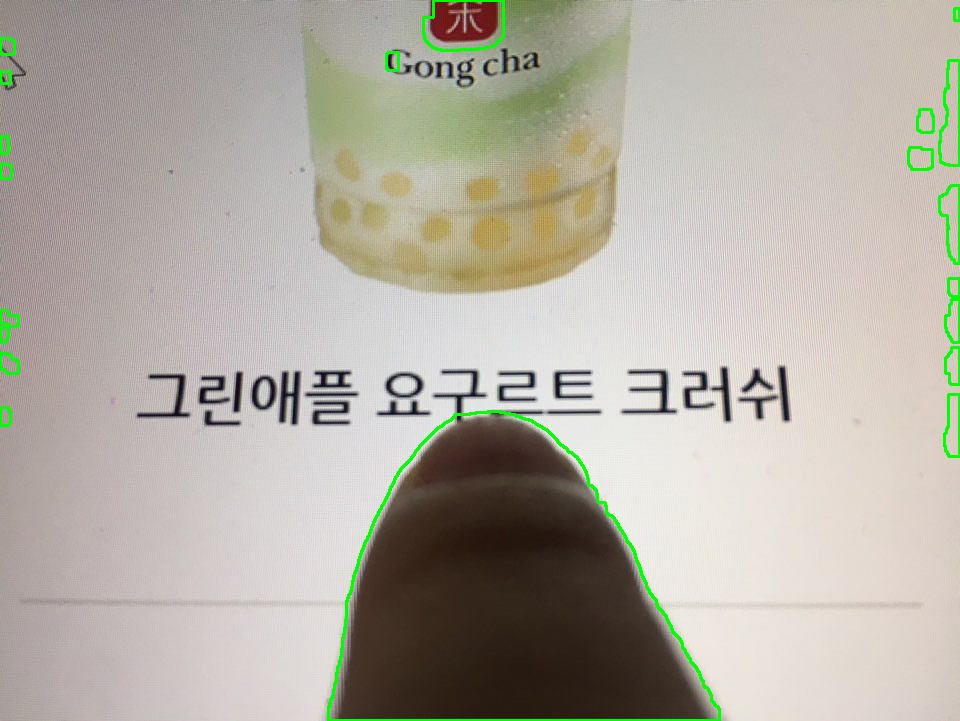
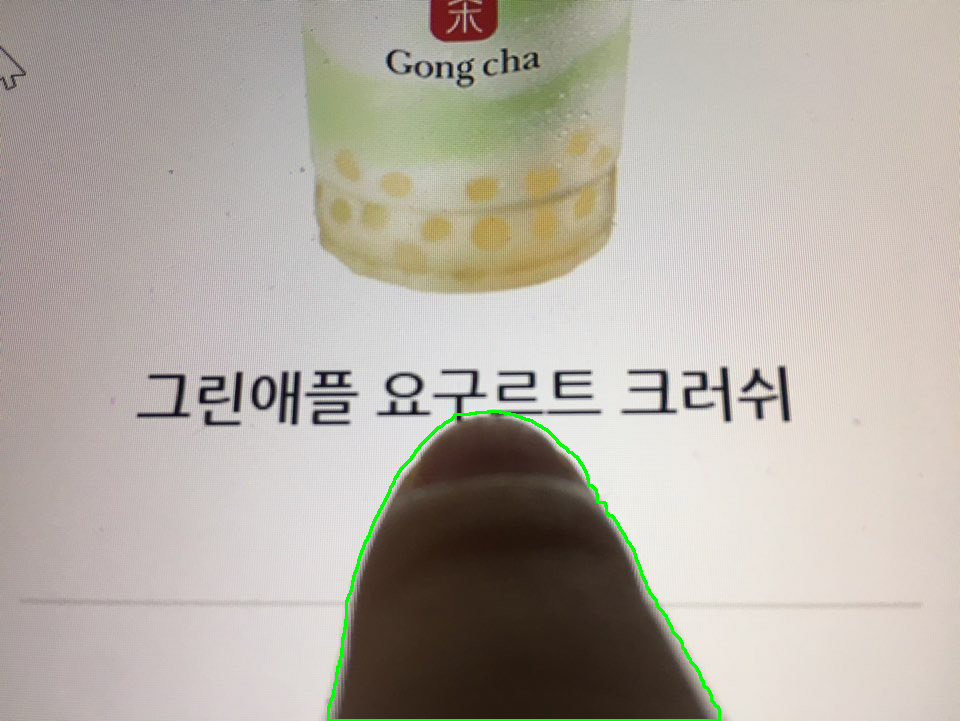
get a finger contour

diff --git a/webcam-capture/src/main/java/example/OpencvExample.java b/webcam-capture/src/main/java/example/OpencvExample.java
@@ -54,52 +54,25 @@ public class OpencvExample {
         List<MatOfPoint> contours = new ArrayList<>();
         Mat hierarchy = new Mat();
         Imgproc.findContours(morphImage, contours, hierarchy, Imgproc.RETR_CCOMP, Imgproc.CHAIN_APPROX_SIMPLE);
-        // draw contours
-        Mat contImage = srcImage.clone();
-        Imgproc.drawContours(contImage, contours, -1, new Scalar(0, 255, 0), 2);
-        saveImage(contImage, savePath + "/gongcha_menu_contour.png");
 
+        // get finger contour
         int centerX = srcImage.width() / 2;
-        int bottom = srcImage.height() - 1;
-        MatOfPoint maxContour = new MatOfPoint();
-//        for (int i = 0; i < contours.size(); i++) {
-            MatOfPoint cont = contours.get(0);
-            Point[] pointArr = cont.toArray();
-            for (int j = 0; j < pointArr.length; j++) {
-                Imgproc.drawMarker(contImage, pointArr[j], new Scalar(0, 255, 0), 1);
-                // center x of src image is between min and max x value of contour?
-//                if ()
+        int bottomY = srcImage.height();
+        Point pt = new Point(centerX, bottomY - 1);
+        MatOfPoint fingerCont = getFingerContour(contours, pt);
+        // draw contours
+        Mat contourImage = srcImage.clone();
+        List<MatOfPoint> contList = new ArrayList<>();
+        contList.add(fingerCont);
+        Imgproc.drawContours(contourImage, contList, -1, new Scalar(0, 255, 0), 2);
+        saveImage(contourImage, savePath + "/gongcha_menu_contour.png");
 
-                System.out.println("contour point:" + pointArr[j].x + "," + pointArr[j].y);
-            }
-//        }
-
-        // determines whether the point is inside a contour
-        Point pt = new Point(centerX, bottom-1);
-        MatOfPoint2f con2 = new MatOfPoint2f();
-        cont.convertTo(con2, CV_32FC2);
-        double pointInContour = Imgproc.pointPolygonTest(con2, pt, false);
-        System.out.println("src image center x:" + centerX);
-        System.out.println("src image max y-1:" + bottom);
-        System.out.println("point is inside?:" + pointInContour);
-
-        // draw convex hull
-        MatOfPoint points = contours.get(0);
-        List<MatOfPoint> hullList = new ArrayList<>();
-        for (MatOfPoint contour : contours) {
-            MatOfInt hull = new MatOfInt();
-            Imgproc.convexHull(points, hull);
-            Point[] contourArray = points.toArray();
-            Point[] hullPoints = new Point[hull.rows()];
-            List<Integer> hullContourIdxList = hull.toList();
-            for (int i = 0; i < hullContourIdxList.size(); i++) {
-                hullPoints[i] = contourArray[hullContourIdxList.get(i)];
-            }
-            hullList.add(new MatOfPoint(hullPoints));
-        }
-        Mat convImage = contImage.clone();
-        Imgproc.drawContours(convImage, hullList, -1, new Scalar(0, 0, 255), 2);
-        saveImage(convImage, savePath + "/gongcha_menu_convex_hull.png");
+//        // get convex hull
+//        List<MatOfPoint> convexHull = getConvexHull(contours);
+//        // draw convex hull
+//        Mat convexImage = contourImage.clone();
+//        Imgproc.drawContours(convexImage, convexHull, -1, new Scalar(0, 0, 255), 2);
+//        saveImage(convexImage, savePath + "/gongcha_menu_convex_hull.png");
     }
 
     // load image
@@ -111,6 +84,30 @@ public class OpencvExample {
     public static void saveImage(Mat imageMatrix, String targetPath) {
         Imgcodecs imgcodecs = new Imgcodecs();
         imgcodecs.imwrite(targetPath, imageMatrix);
+    }
+
+    /**
+     * get a finger contour <br>
+     *  - determines whether the point is inside a contour
+     * @param contours
+     * @return
+     */
+    public static MatOfPoint getFingerContour(List<MatOfPoint> contours, Point pt) {
+        MatOfPoint fingerCont = new MatOfPoint();
+        for (int i = 0; i < contours.size(); i++) {
+            MatOfPoint cont = contours.get(i);
+            MatOfPoint2f con2 = new MatOfPoint2f();
+            cont.convertTo(con2, CV_32FC2);
+            double pointInContour = Imgproc.pointPolygonTest(con2, pt, false);
+            System.out.println("src image point(center,bottom-1): (" + pt.x + "," + pt.y + ")");
+            System.out.println("point is inside or on edge?:" + (pointInContour > -1.0 ? "Yes" : "No"));
+            if (pointInContour > -1) {
+                System.out.println("pointInCountour index:" + i);
+                fingerCont = cont;
+                break;
+            }
+        }
+        return fingerCont;
     }
 
     // find max contour
@@ -128,5 +125,24 @@ public class OpencvExample {
             if(contourArea > maxContourArea) maxContour = contour;
         }
         return maxContour;
+    }
+
+    // get Convex hull
+    public static List<MatOfPoint> getConvexHull(List<MatOfPoint> contours) {
+        // draw convex hull
+        List<MatOfPoint> hullList = new ArrayList<>();
+        for (int i=0; i<contours.size(); i++) {
+            MatOfPoint points = contours.get(i);
+            MatOfInt hull = new MatOfInt();
+            Imgproc.convexHull(points, hull);
+            Point[] contourArray = points.toArray();
+            Point[] hullPoints = new Point[hull.rows()];
+            List<Integer> hullContourIdxList = hull.toList();
+            for (int j = 0; j < hullContourIdxList.size(); j++) {
+                hullPoints[j] = contourArray[hullContourIdxList.get(j)];
+            }
+            hullList.add(new MatOfPoint(hullPoints));
+        }
+        return hullList;
     }
 }
